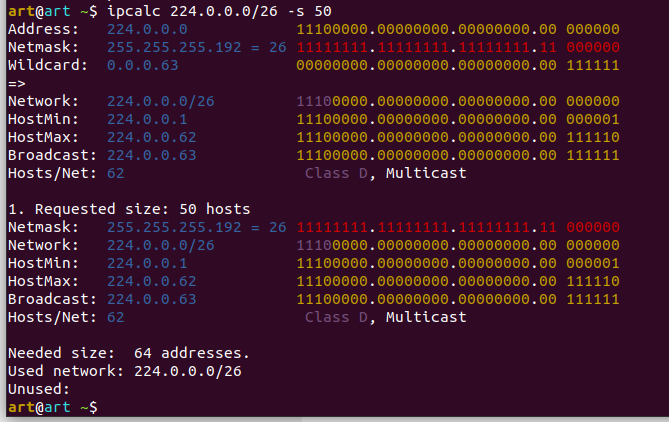
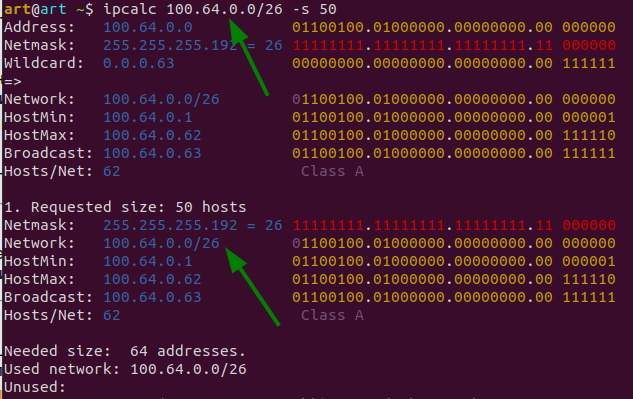
FIX home work - 6th task

Changed region(s): [[0.0, 0.0, 1.0, 1.0], [0.3602, 0.6316, 0.3902, 0.6917]]

diff --git a/03-sysadmin-07-net/README.md b/03-sysadmin-07-net/README.md
@@ -66,7 +66,8 @@ Hosts/Net: 6                     Class A, Private Internet<br />
 
 #### 6.Задача: вас попросили организовать стык между 2-мя организациями. Диапазоны 10.0.0.0/8, 172.16.0.0/12, 192.168.0.0/16 уже заняты. Из какой подсети допустимо взять частные IP адреса? Маску выберите из расчета максимум 40-50 хостов внутри подсети.
 <em>Ответ:<em><br />
->Просмотрев все возможные сети, решил что подойдет 224.0.0.0/4 - класс D, Multicast
+>Посмотрев RFC, выбрал - 100.64.0.0 — 100.127.255.255 (маска подсети 255.192.0.0 или /10) <br />
+-Данная подсеть рекомендована согласно RFC 6598 для использования в качестве адресов для CGN
 
 ![drawing](result6.png)
 
